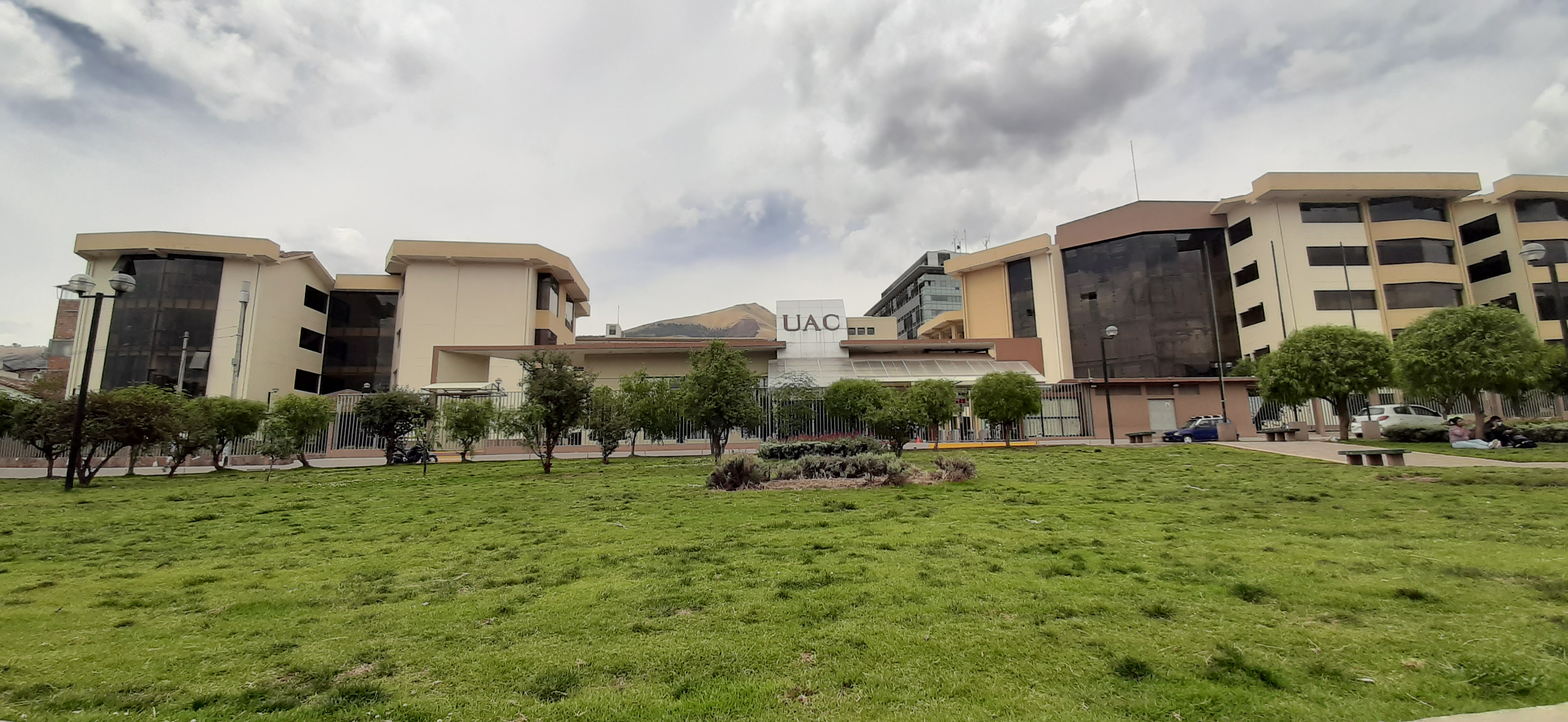
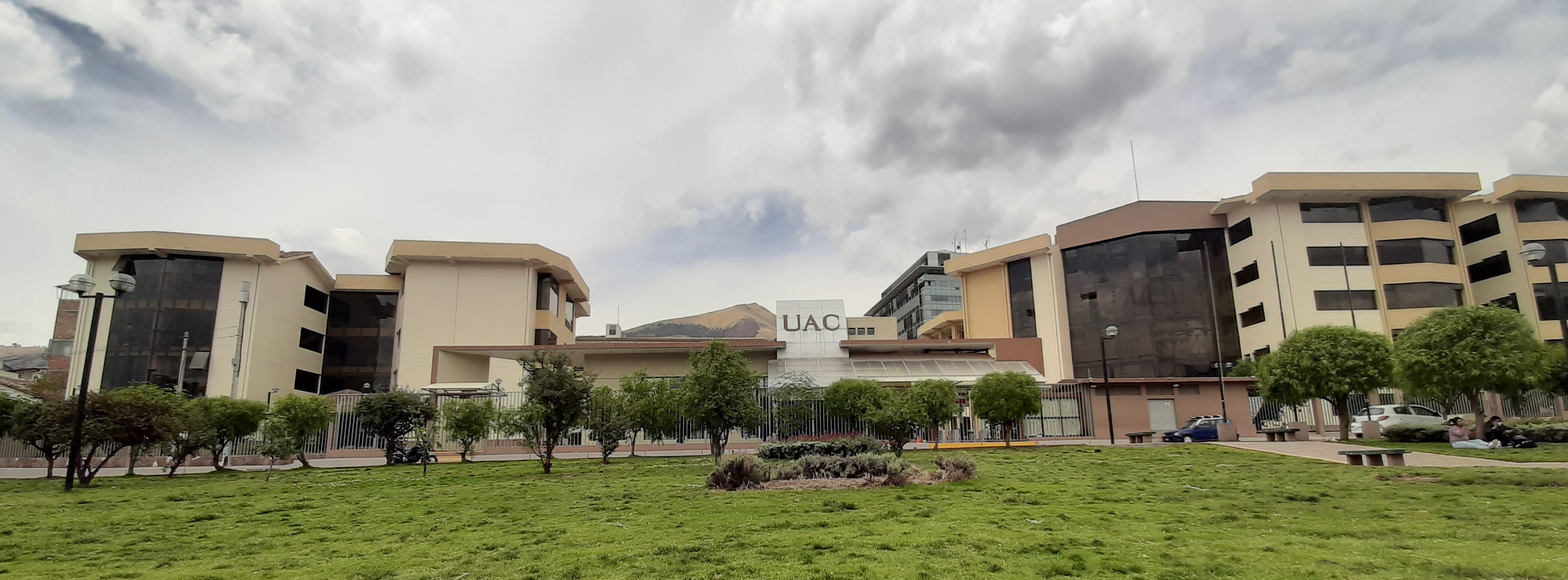
fondo de login

diff --git a/src/app/component/seguridad/login/login.component.css b/src/app/component/seguridad/login/login.component.css
@@ -3,14 +3,14 @@
 
 }
  .fondologin{
-  height: 100%;
+  height: 92.5%;
   width: auto;
   margin-top: -1px;
   padding: 0%;
   background-repeat: no-repeat;
   background-size: 100% 100%;
-  background-image: url('./../../../../assets/img/andina/uac2.jpg');
-  opacity: 90%;
+  background-image: url('./../../../../assets/img/andina/uac6.jpg');
+  opacity: 80%;
 }
 .example-fill-remaining-space {
     flex: 1 1 auto;
